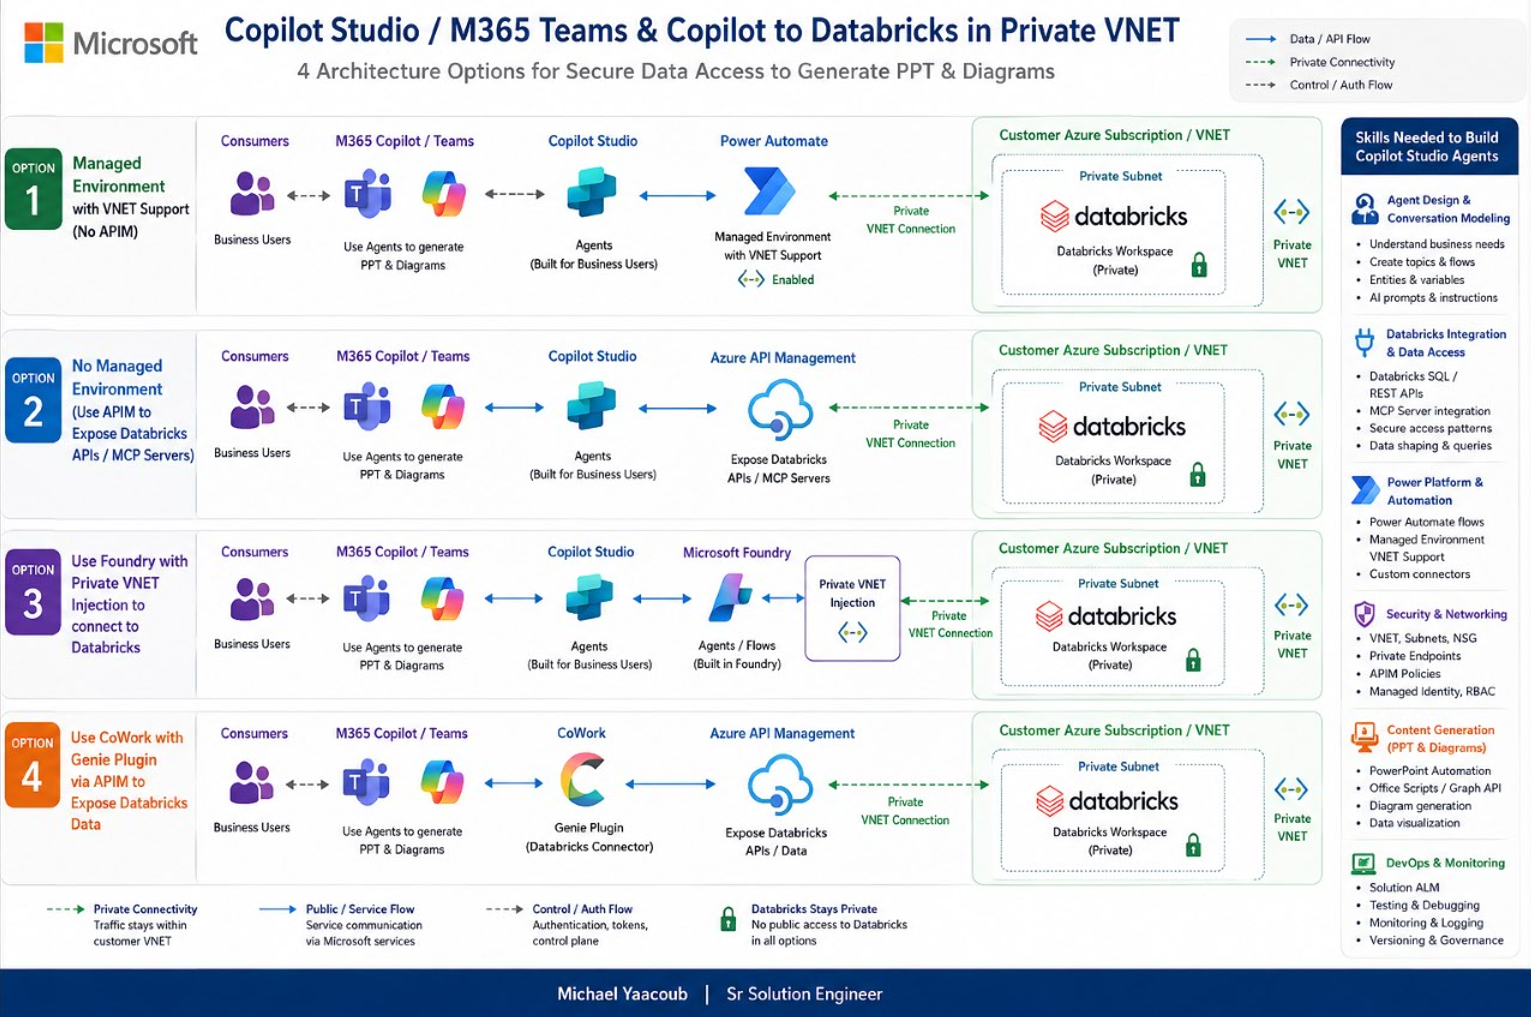
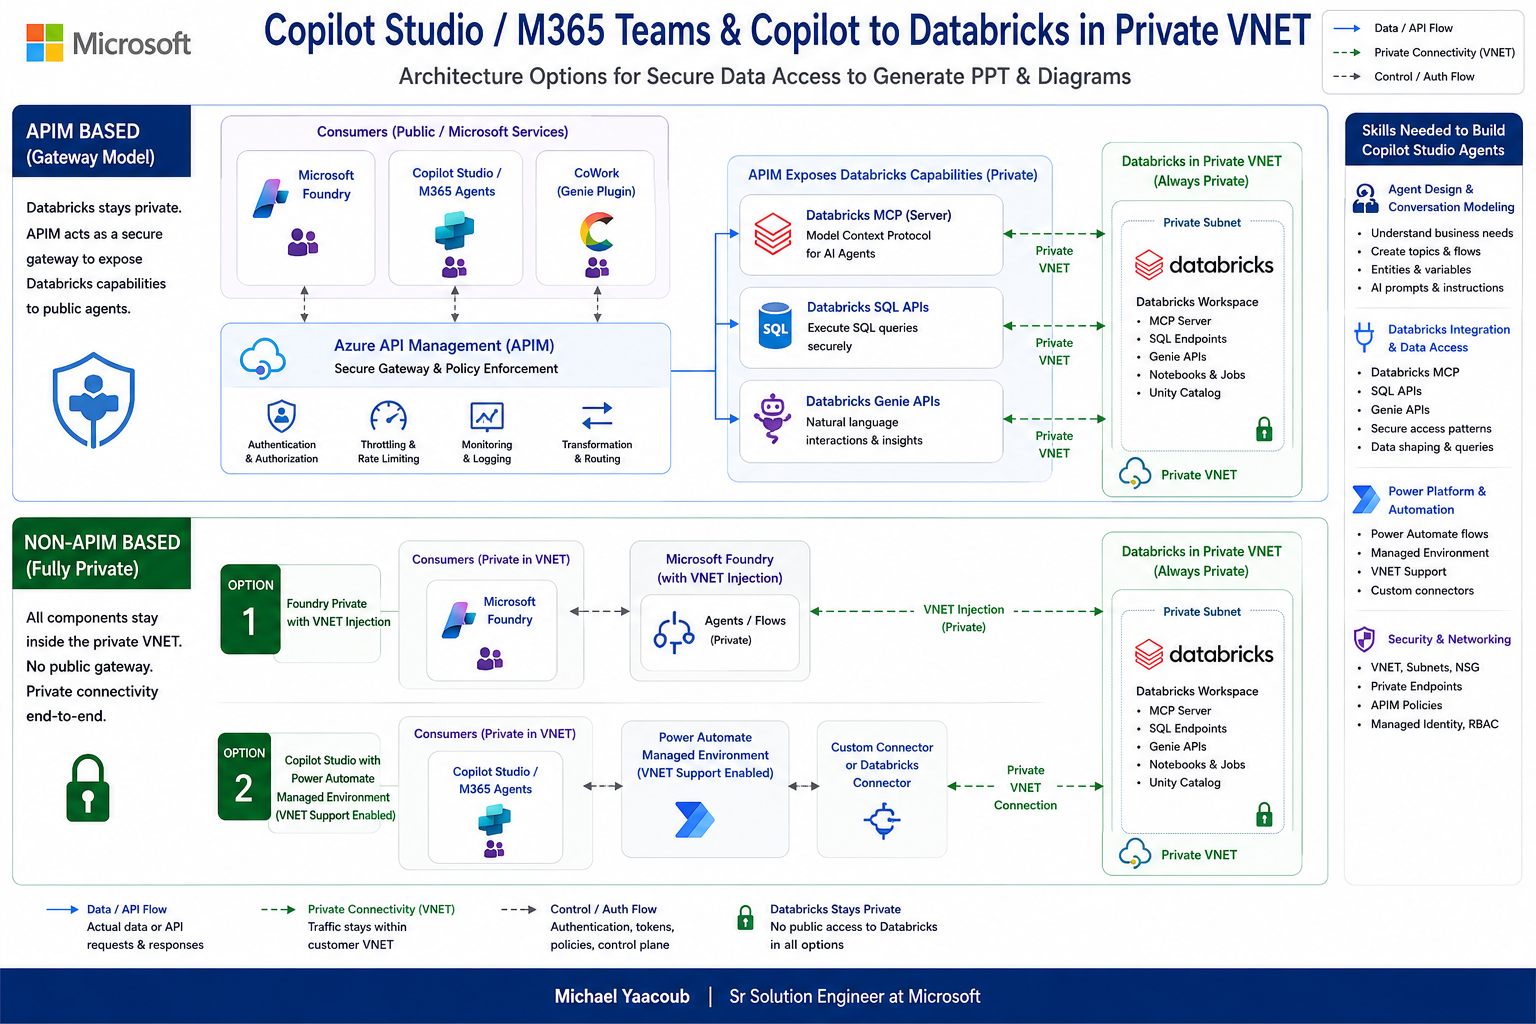
options

Changed region(s): [[0.0, 0.0, 1.0, 1.0], [0.0, 0.8535, 0.0307, 0.884]]

diff --git a/README.md b/README.md
@@ -63,17 +63,27 @@ flowchart LR
 
 ## 2. Architecture diagrams
 
-### 2.1 Four architecture options — Copilot/Teams to Databricks in a private VNet
+### 2.1 Secure access patterns — APIM gateway or fully private connectivity
 ![Architecture alternatives](docs/Agents-DataBricks-Private-Architecture-Alternatives.png)
 
-This diagram compares **four secure ways** for M365 Copilot / Teams / Copilot
-Studio to reach a **private** Databricks workspace to generate PPT & diagrams. In
-every option **Databricks stays private** (no public access); the options differ
-only in *what sits between the agent and the VNet* (Power Platform managed
-environment, APIM, Foundry VNet injection, or CoWork + Genie via APIM). The right
-rail lists the **skills needed** to build the Copilot Studio agents (agent design,
-Databricks integration, Power Platform, security/networking, content generation,
-DevOps).
+This diagram groups the solution into an **APIM-based gateway model** and two
+**non-APIM, fully private options**. In every path, the Databricks workspace stays
+inside its private VNet with no public access:
+
+- The **APIM-based model** lets Microsoft Foundry, Copilot Studio / M365 agents,
+  and CoWork call Databricks MCP, SQL, and Genie capabilities through one secure
+  gateway. APIM provides authentication and authorization, throttling and rate
+  limiting, monitoring and logging, and request transformation and routing;
+  APIM-to-Databricks traffic uses private VNet connectivity.
+- **Non-APIM option 1** uses Microsoft Foundry with VNet injection so private
+  agents and flows connect directly to the Databricks VNet.
+- **Non-APIM option 2** uses Copilot Studio with a Power Automate Managed
+  Environment that has VNet support, plus a custom or Databricks connector.
+
+The arrows distinguish data/API traffic, private VNet connectivity, and
+control/authentication flows. The right rail summarizes the implementation
+skills required across agent design, Databricks integration, Power Platform,
+and security and networking.
 
 ### 2.2 APIM operational process & policy enforcement
 ![APIM operational process](docs/APIM%20-%20Operational%20Process.png)
